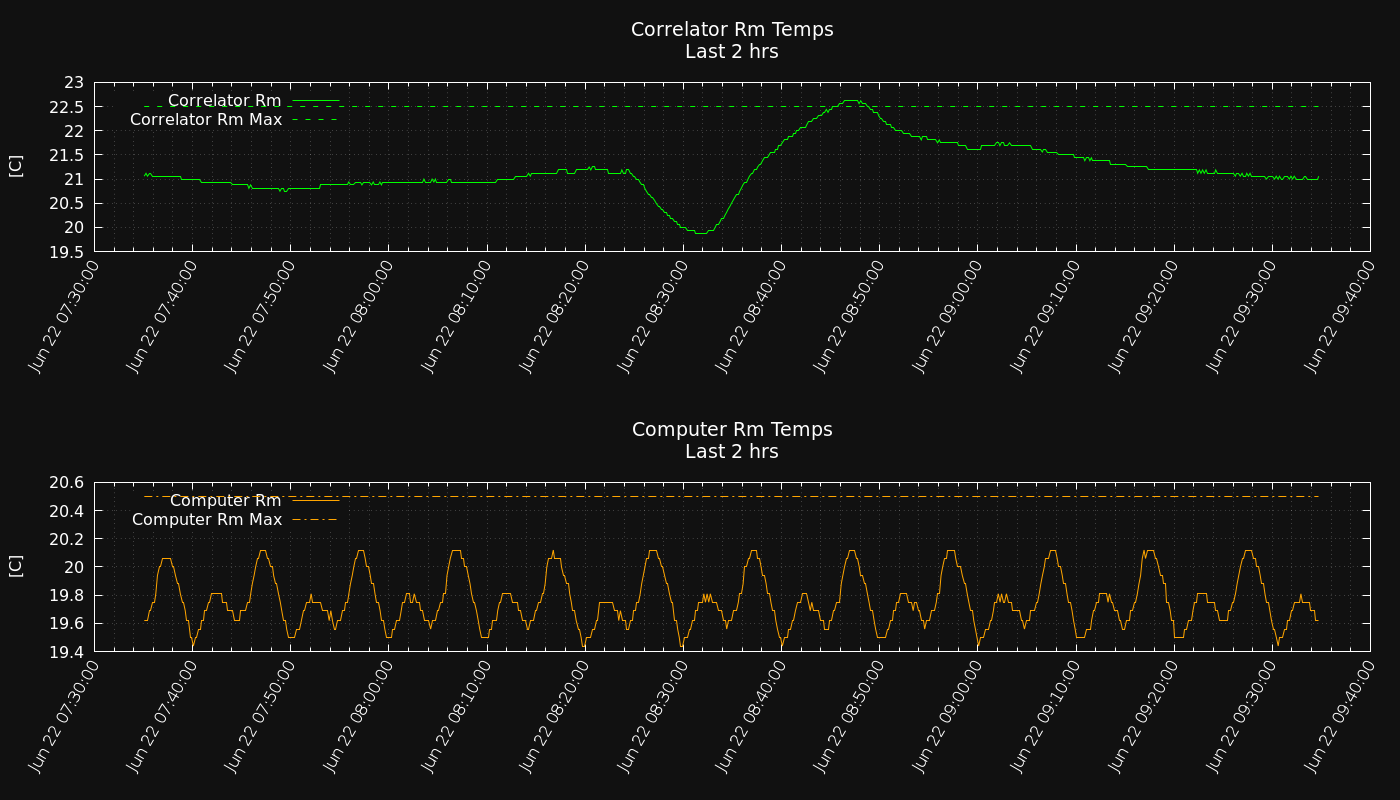
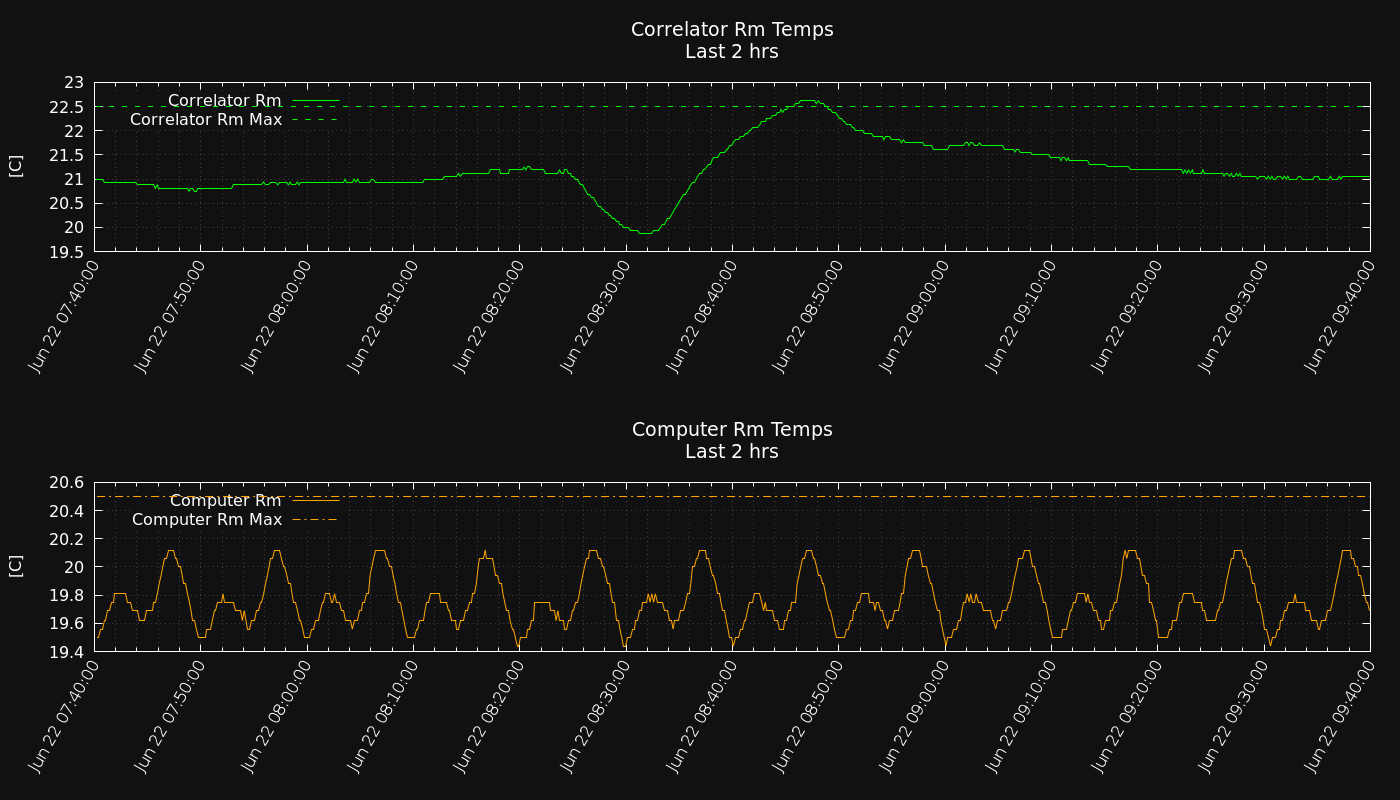
update

diff --git a/generatorMon/date-time.html b/generatorMon/date-time.html
@@ -1,3 +1,3 @@
-<h2>Last Record Read- Local: 2022-06-22 16:37:10.786898201 &#43;0000 UTC; LST: 2ʰ47ᵐ24ˢ.8051; MJD: 59752.69248595927</h2>
+<h2>Last Record Read- Local: 2022-06-22 16:39:10.835690048 &#43;0000 UTC; LST: 2ʰ49ᵐ25ˢ.1826; MJD: 59752.69387541292</h2>
 
 
